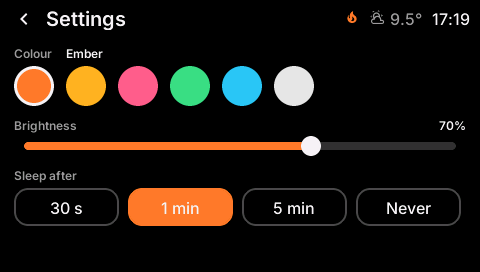
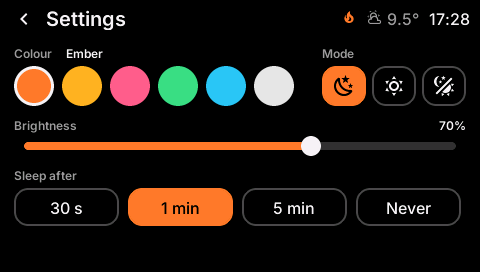
v0.6.0: dark, light and auto (sun) mode
Mode select (Dark/Light/Auto, also in HA) with three buttons on the
settings page. Auto follows sun.sun; the last sun state is kept through
deep sleep. Theme colours are made local at boot and swapped between
palettes at run time (palette.h); schemes get light-mode accents; button
labels follow their button's state (dark text on the accent).

diff --git a/src/main/palette.h b/src/main/palette.h
@@ -1,0 +1,93 @@
+#pragma once
+// Dark and light mode. Every neutral colour of the UI exists in both modes;
+// the YAML is written in the dark colours (src/main/theme.yaml). Switching
+// walks all widgets once and swaps each colour for its counterpart; colours
+// set from lambdas go through pal(). Accents are per scheme (schemes.h).
+
+#include <cstdint>
+
+struct PanelColourPair {
+  uint32_t dark;
+  uint32_t light;
+};
+
+// dark (theme.yaml hex_*)  ->  light
+static const PanelColourPair PANEL_PALETTE[] = {
+    {0x000000, 0xF4F4F4},  // hex_bg
+    {0xF0F0F0, 0x161616},  // hex_text
+    {0x9A9A9A, 0x5C5C5C},  // hex_text2
+    {0x4A4A4A, 0xB4B4B4},  // hex_line
+    {0x303030, 0xD8D8D8},  // hex_track
+    {0x3A3A3A, 0xD0D0D0},  // hex_card_hi
+    {0x3C3C3C, 0xBEBEBE},  // hex_off
+    {0xFFC042, 0xC48200},  // hex_warn
+};
+
+inline bool panel_light = false;
+
+// A dark-mode colour as it is in the current mode
+inline uint32_t pal(uint32_t dark) {
+  if (!panel_light)
+    return dark;
+  for (const auto &p : PANEL_PALETTE)
+    if (p.dark == dark)
+      return p.light;
+  return dark;
+}
+
+// Any palette colour (dark or light) as it is in the given mode
+inline uint32_t panel_to_mode(uint32_t c, bool light) {
+  for (const auto &p : PANEL_PALETTE) {
+    if (light && c == p.dark)
+      return p.light;
+    if (!light && c == p.light)
+      return p.dark;
+  }
+  return c;
+}
+
+// Theme colours (shared LVGL styles) become each widget's own colours, so
+// the walk below can swap them. Buttons pass their state on to their
+// labels, which are light normally and dark on a selected (accent) button.
+inline void panel_localize(lv_obj_t *obj) {
+  lv_style_value_t v;
+  const bool in_button = lv_obj_get_parent(obj) && lv_obj_check_type(lv_obj_get_parent(obj), &lv_button_class);
+  if (lv_obj_check_type(obj, &lv_button_class)) {
+    lv_obj_add_flag(obj, LV_OBJ_FLAG_STATE_TRICKLE);
+    if (lv_obj_get_local_style_prop(obj, LV_STYLE_BORDER_COLOR, &v, LV_PART_MAIN) != LV_RESULT_OK)
+      lv_obj_set_style_border_color(obj, lv_color_hex(0x4A4A4A), LV_PART_MAIN);
+    if (lv_obj_get_local_style_prop(obj, LV_STYLE_BG_COLOR, &v, LV_PART_MAIN | LV_STATE_PRESSED) != LV_RESULT_OK)
+      lv_obj_set_style_bg_color(obj, lv_color_hex(0x3A3A3A), LV_PART_MAIN | LV_STATE_PRESSED);
+  } else if (lv_obj_check_type(obj, &lv_label_class) &&
+             lv_obj_get_local_style_prop(obj, LV_STYLE_TEXT_COLOR, &v, LV_PART_MAIN) != LV_RESULT_OK) {
+    lv_obj_set_style_text_color(obj, lv_color_hex(0xF0F0F0), LV_PART_MAIN);
+    if (in_button)
+      lv_obj_set_style_text_color(obj, lv_color_hex(0x000000), LV_PART_MAIN | LV_STATE_CHECKED);
+  }
+  for (uint32_t i = 0; i < lv_obj_get_child_count(obj); i++)
+    panel_localize(lv_obj_get_child(obj, i));
+}
+
+// Swap every palette colour of obj and its children to the given mode
+inline void panel_recolor(lv_obj_t *obj, bool light) {
+  static const lv_style_prop_t PROPS[] = {LV_STYLE_BG_COLOR, LV_STYLE_BORDER_COLOR, LV_STYLE_TEXT_COLOR,
+                                          LV_STYLE_ARC_COLOR, LV_STYLE_OUTLINE_COLOR};
+  static const lv_part_t PARTS[] = {LV_PART_MAIN, LV_PART_INDICATOR, LV_PART_KNOB};
+  static const lv_state_t STATES[] = {LV_STATE_DEFAULT, LV_STATE_CHECKED, LV_STATE_PRESSED, LV_STATE_DISABLED};
+  lv_style_value_t v;
+  for (lv_part_t part : PARTS)
+    for (lv_state_t state : STATES)
+      for (lv_style_prop_t prop : PROPS) {
+        const lv_style_selector_t sel = part | state;
+        if (lv_obj_get_local_style_prop(obj, prop, &v, sel) != LV_RESULT_OK)
+          continue;
+        const uint32_t c = lv_color_to_u32(v.color) & 0xFFFFFF;
+        const uint32_t n = panel_to_mode(c, light);
+        if (n != c) {
+          v.color = lv_color_hex(n);
+          lv_obj_set_local_style_prop(obj, prop, v, sel);
+        }
+      }
+  for (uint32_t i = 0; i < lv_obj_get_child_count(obj); i++)
+    panel_recolor(lv_obj_get_child(obj, i), light);
+}

diff --git a/src/main/schemes.h b/src/main/schemes.h
@@ -1,24 +1,25 @@
 #pragma once
 // Colour schemes: the accent for "heating" and everything active (selected
-// preset, Heating on, slider, flame) and the accent for "on, not heating".
-// The background stays black in every scheme: on this panel dark fills
-// look tinted and their edges stair-stepped, bright accents on black don't.
+// preset, Heating on, slider, flame) and the accent for "on, not heating",
+// each in a dark-mode and a (deeper, readable on white) light-mode version.
+// Dark mode keeps a black background in every scheme: on this panel dark
+// fills look tinted and their edges stair-stepped, bright accents don't.
 // Same order as the options of select.color_scheme (src/main/settings.yaml).
 
 #include <cstdint>
 
 struct PanelScheme {
   const char *name;
-  uint32_t heat;
-  uint32_t idle;
+  uint32_t heat, idle;              // dark mode
+  uint32_t heat_light, idle_light;  // light mode
 };
 
 static const PanelScheme PANEL_SCHEMES[] = {
-    {"Ember", 0xFF7A2F, 0x4C9BFF},
-    {"Amber", 0xFFB020, 0x4C9BFF},
-    {"Rose", 0xFF5C8A, 0x8C7BFF},
-    {"Forest", 0x3DDC84, 0x4CC3FF},
-    {"Ocean", 0x29C5F6, 0x7A8CFF},
-    {"Mono", 0xE6E6E6, 0x8A8A8A},
+    {"Ember", 0xFF7A2F, 0x4C9BFF, 0xF0661A, 0x2F7FE8},
+    {"Amber", 0xFFB020, 0x4C9BFF, 0xD98E00, 0x2F7FE8},
+    {"Rose", 0xFF5C8A, 0x8C7BFF, 0xE33E6C, 0x6C58E8},
+    {"Forest", 0x3DDC84, 0x4CC3FF, 0x1E9E58, 0x1E8FCC},
+    {"Ocean", 0x29C5F6, 0x7A8CFF, 0x0A9AD0, 0x5566E0},
+    {"Mono", 0xE6E6E6, 0x8A8A8A, 0x262626, 0x7A7A7A},
 };
 static const int PANEL_SCHEME_COUNT = sizeof(PANEL_SCHEMES) / sizeof(PANEL_SCHEMES[0]);

diff --git a/src/main/rtc_cache.h b/src/main/rtc_cache.h
@@ -7,7 +7,7 @@
 #include <string>
 #include "esp_attr.h"
 
-static const uint32_t PANEL_CACHE_MAGIC = 0x7E3A0001;  // bump when the layout changes
+static const uint32_t PANEL_CACHE_MAGIC = 0x7E3A0002;  // bump when the layout changes
 
 struct RoomCache {
   float tgt, cur, hum, valve, lo, hi;
@@ -21,6 +21,7 @@ struct PanelCache {
   float outdoor;
   bool main_valve;
   char central[24];
+  uint8_t sun_up;  // 0 unknown, 1 up, 2 down
 };
 
 RTC_DATA_ATTR PanelCache panel_cache;

diff --git a/README.md b/README.md
@@ -2,7 +2,7 @@
 
 [![Release](https://img.shields.io/github/v/release/Boisti13/esp32-s3-thermostat?include_prereleases)](https://github.com/Boisti13/esp32-s3-thermostat/releases)
 [![License: MIT](https://img.shields.io/badge/license-MIT-blue.svg)](LICENSE)
-![Version](https://img.shields.io/badge/version-0.5.0-orange)
+![Version](https://img.shields.io/badge/version-0.6.0-orange)
 ![ESPHome](https://img.shields.io/badge/ESPHome-2026.9.1-black)
 ![LVGL](https://img.shields.io/badge/LVGL-9-green)
 
@@ -36,9 +36,11 @@ but works with any Home Assistant `climate` entity that heats.
   temperature, a flame while the main heating supply is on, and warning
   icons when the central mode is *Stopped* or Home Assistant isn't
   connected.
-- **Settings page** (⋯ top left): six colour schemes (Ember, Amber, Rose,
-  Forest, Ocean, Mono), brightness, and *Sleep after* (30 s, 1 min, 5 min,
-  Never). They are kept in flash and are also entities in Home Assistant.
+- **Settings page** (⋯ top left): *Mode* dark, light or auto (light while
+  the sun is up, from Home Assistant's `sun.sun`), six colour schemes
+  (Ember, Amber, Rose, Forest, Ocean, Mono), brightness, and *Sleep after*
+  (30 s, 1 min, 5 min, Never). They are kept in flash and are also entities
+  in Home Assistant.
 - **Runs on a battery**: dims after 15 s, deep-sleeps after *Sleep after*
   (1 min by default) with the backlight held off. A touch or the BOOT button wakes it, and it shows the
   last known values at once (kept in RTC memory) while it reconnects. A
@@ -53,6 +55,10 @@ but works with any Home Assistant `climate` entity that heats.
 | Settings | Ocean scheme |
 |---|---|
 | ![](docs/images/settings.png) | ![](docs/images/scheme-ocean.png) |
+
+| Light mode | Light mode settings |
+|---|---|
+| ![](docs/images/light.png) | ![](docs/images/light-settings.png) |
 
 ## Hardware
 
@@ -147,10 +153,12 @@ All of it lives in `src/main/entities.yaml`.
 | `main_valve_entity` | `switch.heat_exchanger` | flame in the status bar while on; `switch.none` = never |
 | `central_mode_entity` | `select.central_mode` | warning while *Stopped* |
 | `idle_dim_s`, `dim_brightness_f` | `15`, `0.15` | dim after 15 s to 15 % |
-| `default_brightness`, `default_sleep`, `default_scheme` | `70`, `1 min`, `Ember` | first-boot values of the settings |
+| `default_brightness`, `default_sleep`, `default_scheme`, `default_mode` | `70`, `1 min`, `Ember`, `Auto` | first-boot values of the settings |
 
-The settings themselves are entities: *Colour scheme* and *Sleep after*
-(select), *Brightness* (number), next to *Stay awake* and *Backlight*.
+The settings themselves are entities: *Mode*, *Colour scheme* and *Sleep
+after* (select), *Brightness* (number), next to *Stay awake* and
+*Backlight*. *Auto* mode reads `sun.sun`; the last sun state is kept through
+deep sleep, so the panel wakes in the right mode.
 
 From each climate entity the panel reads its state (`heat`/`off`) and the
 attributes `temperature`, `current_temperature`, `current_humidity`,
@@ -181,7 +189,8 @@ src/main/status.yaml       status bar logic (clock, outdoor, central mode)
 src/main/status_widgets.yaml   status bar and page dots
 src/main/settings.yaml     settings entities, colour schemes, dim/sleep timing
 src/main/settings_page.yaml    the settings page
-src/main/schemes.h         the colour schemes
+src/main/schemes.h         the colour schemes (dark and light accents)
+src/main/palette.h         dark/light colours and the switch
 src/main/power.yaml        deep sleep, wake pins, RTC value cache, Stay awake
 src/main/rtc_cache.h       the cache's layout
 src/main/battery.yaml      optional battery level (needs the mod)

diff --git a/CLAUDE.md b/CLAUDE.md
@@ -69,7 +69,11 @@ while awake. For OTA, wake it and turn on its *Stay awake* switch.
   `apply_scheme` (src/main/settings.yaml). A new scheme goes into
   `src/main/schemes.h` and the select's options, in the same order.
 - Dark fills look tinted and stair-stepped on this panel: keep the
-  background black, use outlines and bright fills only. Icons as `ic_*`
+  background black, use outlines and bright fills only.
+- Light mode: YAML is written in the dark colours; `src/main/palette.h`
+  maps each to its light counterpart and swaps all widgets' colours when
+  the mode changes. A new neutral colour needs a pair there; lambdas wrap
+  neutral colours in `pal()`. Icons as `ic_*`
   substitutions; a new icon must also go into the `glyphs`/`extras` of every
   font that shows it.
 - In YAML flow mappings (`{ ... }`) quote any value containing `${...}`, or

diff --git a/CHANGELOG.md b/CHANGELOG.md
@@ -1,5 +1,19 @@
 # Changelog
 
+## v0.6.0 — 2026-10-16
+
+### Added
+
+- Light mode, and *Auto* (light while the sun is up, from Home Assistant's
+  `sun.sun`; the default). Three buttons next to the colour swatches, and a
+  *Mode* entity in Home Assistant. The last sun state survives deep sleep.
+- Light-mode variants of every colour scheme's accents.
+
+### Changed
+
+- Text on a selected button is dark on the accent (was white, unreadable
+  in the Mono scheme).
+
 ## v0.5.0 — 2026-10-16
 
 ### Added
